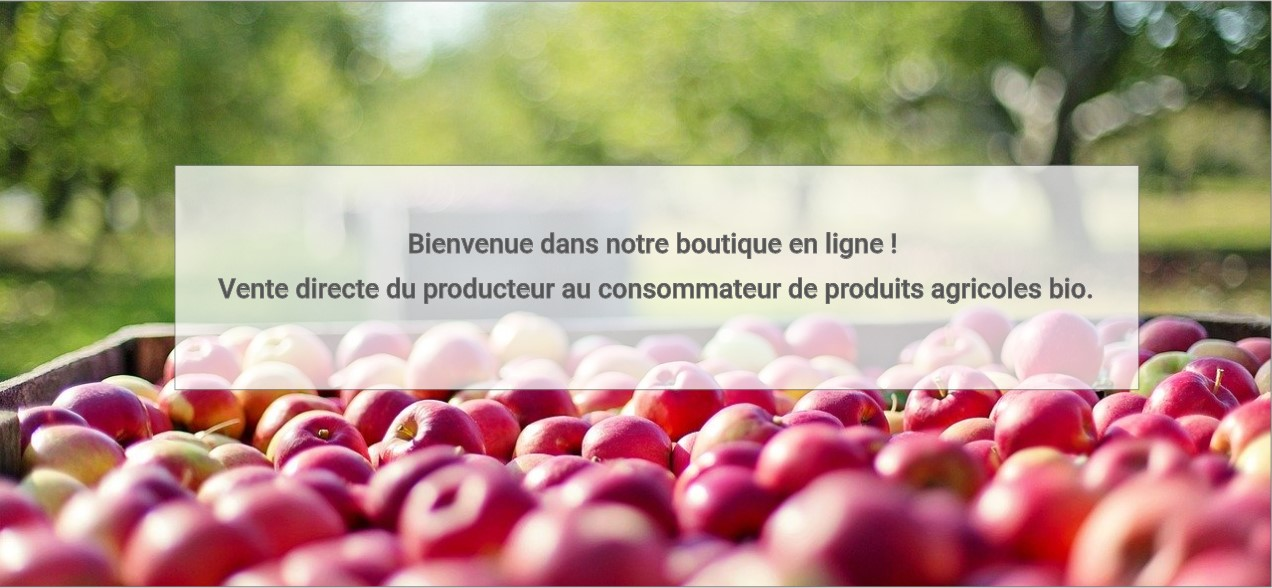
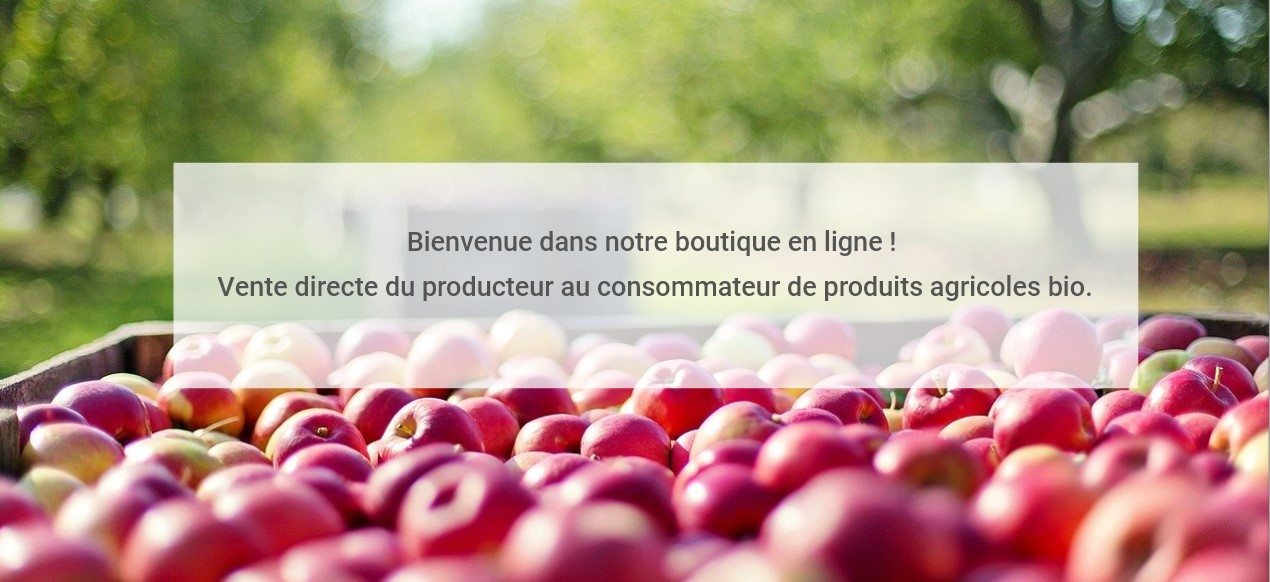
Changement img accueil + color hover btn header

diff --git a/css/style.css b/css/style.css
@@ -46,7 +46,7 @@ header  a:hover{
   color: #f1f7d1 !important;
 }
 header .btn:hover{
-  background-color: lightgrey !important;
+  background-color: #f1f7d1 !important;
 }
 .img_header{
   width:70%;
@@ -96,6 +96,8 @@ main{
   width:70% !important;
   height:30% !important;
   display: block;
+  margin-top:5%;
+  margin-bottom:5%;
 }
 
 /** Section 3 : texte **/
